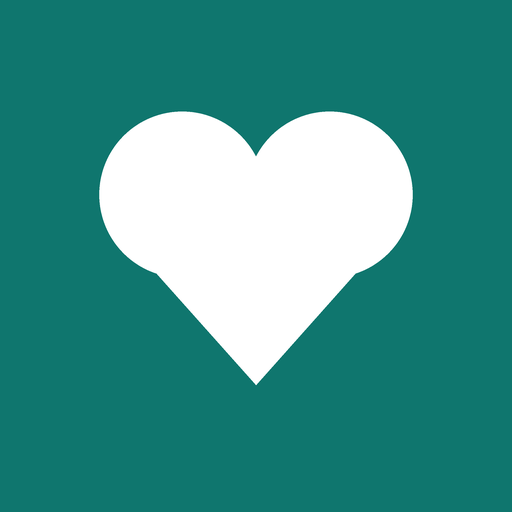
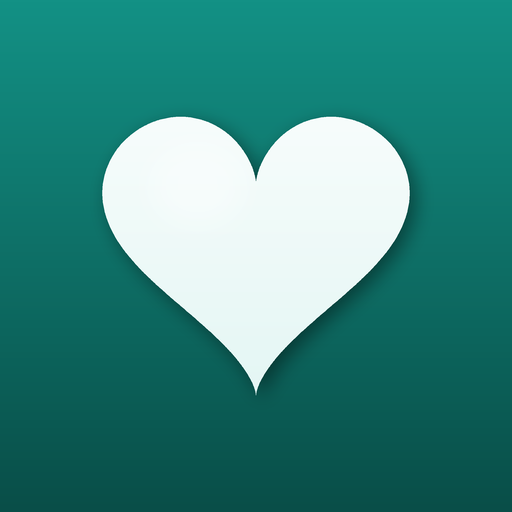
Dibuja un corazón mejor en los iconos de la PWA
- El corazón sale de la curva paramétrica clasica (no dos circulos y un triangulo).
- Fondo con degradado, sombra suave bajo el corazón y brillo en el lóbulo izquierdo.
- Regenerados los cinco tamaños: 192, 512, maskable, apple-touch y favicon.

diff --git a/tools/generate_icons.py b/tools/generate_icons.py
@@ -4,62 +4,150 @@
 
 Salida: icons/icon-192.png, icons/icon-512.png, icons/icon-512-maskable.png,
         icons/apple-touch-icon.png, icons/favicon-64.png
+
+El corazón se dibuja con la curva paramétrica clásica
+    x = 16·sin³t ;  y = 13·cos t − 5·cos 2t − 2·cos 3t − cos 4t
+sobre un degradado, con sombra suave y brillo, para que no quede como un
+triángulo pegado a dos círculos.
 """
+import math
 import os
-from PIL import Image, ImageDraw
 
-TEAL = (15, 118, 110, 255)      # color principal de la app
-TEAL_DARK = (11, 93, 86, 255)
-WHITE = (255, 255, 255, 255)
-SS = 4                          # supersampling para bordes suaves
+from PIL import Image, ImageChops, ImageDraw, ImageFilter, ImageOps
 
+TEAL_TOP = (19, 145, 133, 255)      # degradado del fondo (arriba)
+TEAL_BOTTOM = (9, 78, 72, 255)      # degradado del fondo (abajo)
+TEAL_DARK = (7, 62, 57, 255)        # borde
+
+# Corazón blanco con un degradado muy suave (arriba claro, abajo levemente verdoso)
+HEART_TOP = (255, 255, 255, 255)
+HEART_BOTTOM = (220, 244, 241, 255)
+
+SS = 4                              # supersampling para bordes suaves
 OUT = os.path.join(os.path.dirname(os.path.dirname(os.path.abspath(__file__))), "icons")
 
 
-def heart(draw, box, color):
-    """Dibuja un corazón centrado dentro de `box` (x0, y0, x1, y1)."""
+# ---------- formas ----------
+
+def heart_polygon(n=900):
+    """Puntos (x, y) del corazón normalizados a la caja 0..1 (centrado)."""
+    pts = []
+    for i in range(n):
+        t = 2 * math.pi * i / n
+        x = 16 * math.sin(t) ** 3
+        y = 13 * math.cos(t) - 5 * math.cos(2 * t) - 2 * math.cos(3 * t) - math.cos(4 * t)
+        pts.append((x, y))
+    xs = [p[0] for p in pts]
+    ys = [p[1] for p in pts]
+    min_x, max_x = min(xs), max(xs)
+    min_y, max_y = min(ys), max(ys)
+    w, h = max_x - min_x, max_y - min_y
+    norm = []
+    for x, y in pts:
+        nx = (x - min_x) / w            # 0..1
+        ny = 1 - (y - min_y) / h        # el eje y de la fórmula sube; en pantalla baja
+        norm.append((nx, ny))
+    return norm
+
+
+def heart_mask(big, box, blur=0.0):
+    """Máscara 'L' con el corazón relleno dentro de `box` (x0, y0, x1, y1)."""
     x0, y0, x1, y1 = box
-    w = x1 - x0
-    h = y1 - y0
-    cx = (x0 + x1) / 2
-    r = w * 0.27
-    top = y0 + h * 0.30
-    lx, rx = cx - w * 0.24, cx + w * 0.24
-    draw.ellipse([lx - r, top - r, lx + r, top + r], fill=color)
-    draw.ellipse([rx - r, top - r, rx + r, top + r], fill=color)
-    draw.polygon(
-        [(cx - w * 0.50, top + h * 0.06), (cx + w * 0.50, top + h * 0.06), (cx, y1 - h * 0.08)],
-        fill=color,
-    )
-
-
-def build(size, rounded, safe_zone=0.62):
-    """icon cuadrado; rounded=True => esquinas redondeadas, False => a sangre (maskable)."""
-    big = size * SS
-    img = Image.new("RGBA", (big, big), (0, 0, 0, 0))
-    d = ImageDraw.Draw(img)
-
-    if rounded:
-        d.rounded_rectangle([0, 0, big - 1, big - 1], radius=int(big * 0.20), fill=TEAL)
-        d.rounded_rectangle([0, 0, big - 1, big - 1], radius=int(big * 0.20), outline=TEAL_DARK, width=int(big * 0.02))
+    bw, bh = x1 - x0, y1 - y0
+    # proporción del corazón (≈1.1 de ancho por alto) para que no se deforme
+    ratio = 32.0 / 29.0
+    if bw / bh > ratio:
+        new_w = bh * ratio
+        x0 += (bw - new_w) / 2
+        bw = new_w
     else:
-        d.rectangle([0, 0, big - 1, big - 1], fill=TEAL)
+        new_h = bw / ratio
+        y0 += (bh - new_h) / 2
+        bh = new_h
 
+    m = Image.new("L", (big, big), 0)
+    d = ImageDraw.Draw(m)
+    d.polygon([(x0 + nx * bw, y0 + ny * bh) for nx, ny in heart_polygon()], fill=255)
+    if blur:
+        m = m.filter(ImageFilter.GaussianBlur(blur))
+    return m
+
+
+def vertical_gradient(big, top, bottom):
+    g = Image.linear_gradient("L").resize((big, big), Image.BILINEAR)
+    return ImageOps.colorize(g, top[:3], bottom[:3]).convert("RGBA")
+
+
+def shadowed(mask, big, offset, blur, alpha):
+    """Sombbra: la máscara desplazada y desenfocada."""
+    sh = Image.new("L", (big, big), 0)
+    sh.paste(mask, (int(offset), int(offset)))
+    sh = sh.filter(ImageFilter.GaussianBlur(blur))
+    sh = sh.point(lambda v: int(v * alpha / 255))
+    return sh
+
+
+# ---------- icono ----------
+
+def build(size, rounded, safe_zone=0.66, heart_top=HEART_TOP, heart_bottom=HEART_BOTTOM):
+    big = size * SS
+    img = vertical_gradient(big, TEAL_TOP, TEAL_BOTTOM)
+
+    # corazón
     pad = (1 - safe_zone) / 2
     box = (big * pad, big * pad, big * (1 - pad), big * (1 - pad))
-    heart(d, box, WHITE)
+    hm = heart_mask(big, box)
+
+    # sombra bajo el corazón
+    shade = Image.new("RGBA", (big, big), (0, 0, 0, 0))
+    shade.paste((0, 0, 0, 255), (0, 0), shadowed(hm, big, big * 0.012, big * 0.018, 110))
+    img = Image.alpha_composite(img, shade)
+
+    # cuerpo del corazón con degradado
+    body = Image.new("RGBA", (big, big), (0, 0, 0, 0))
+    body.paste(vertical_gradient(big, heart_top, heart_bottom), (0, 0), hm)
+    img = Image.alpha_composite(img, body)
+
+    # brillo: reflejo redondeado sobre el lóbulo izquierdo (luz desde arriba-izquierda).
+    # Con el corazón blanco casi no se nota; si algún día se cambia a un color
+    # fuerte, el reflejo ya está colocado.
+    bx0, by0, bx1, by1 = box
+    bw, bh = bx1 - bx0, by1 - by0
+    cx = (bx0 + bx1) / 2
+    shine = Image.new("L", (big, big), 0)
+    ImageDraw.Draw(shine).ellipse(
+        [cx - bw * 0.34, by0 + bh * 0.14, cx - bw * 0.04, by0 + bh * 0.40], fill=90
+    )
+    shine = shine.filter(ImageFilter.GaussianBlur(big * 0.022))
+    shine = ImageChops.multiply(shine, hm)
+    gloss = Image.new("RGBA", (big, big), HEART_TOP)
+    gloss.putalpha(shine)
+    img = Image.alpha_composite(img, gloss)
+
+    # esquinas
+    if rounded:
+        radius = int(big * 0.20)
+        mask = Image.new("L", (big, big), 0)
+        ImageDraw.Draw(mask).rounded_rectangle([0, 0, big - 1, big - 1], radius=radius, fill=255)
+        frame = Image.new("RGBA", (big, big), (0, 0, 0, 0))
+        ImageDraw.Draw(frame).rounded_rectangle(
+            [0, 0, big - 1, big - 1], radius=radius, outline=TEAL_DARK, width=int(big * 0.018)
+        )
+        img.putalpha(mask)          # recorta las esquinas
+        img = Image.alpha_composite(img, frame)
 
     return img.resize((size, size), Image.LANCZOS)
 
 
 def main():
     os.makedirs(OUT, exist_ok=True)
+
     targets = [
         ("icon-192.png", 192, True, 0.66),
         ("icon-512.png", 512, True, 0.66),
         ("icon-512-maskable.png", 512, False, 0.60),
         ("apple-touch-icon.png", 180, False, 0.62),
-        ("favicon-64.png", 64, True, 0.70),
+        ("favicon-64.png", 64, True, 0.72),
     ]
     for name, size, rounded, safe in targets:
         build(size, rounded, safe).save(os.path.join(OUT, name))
